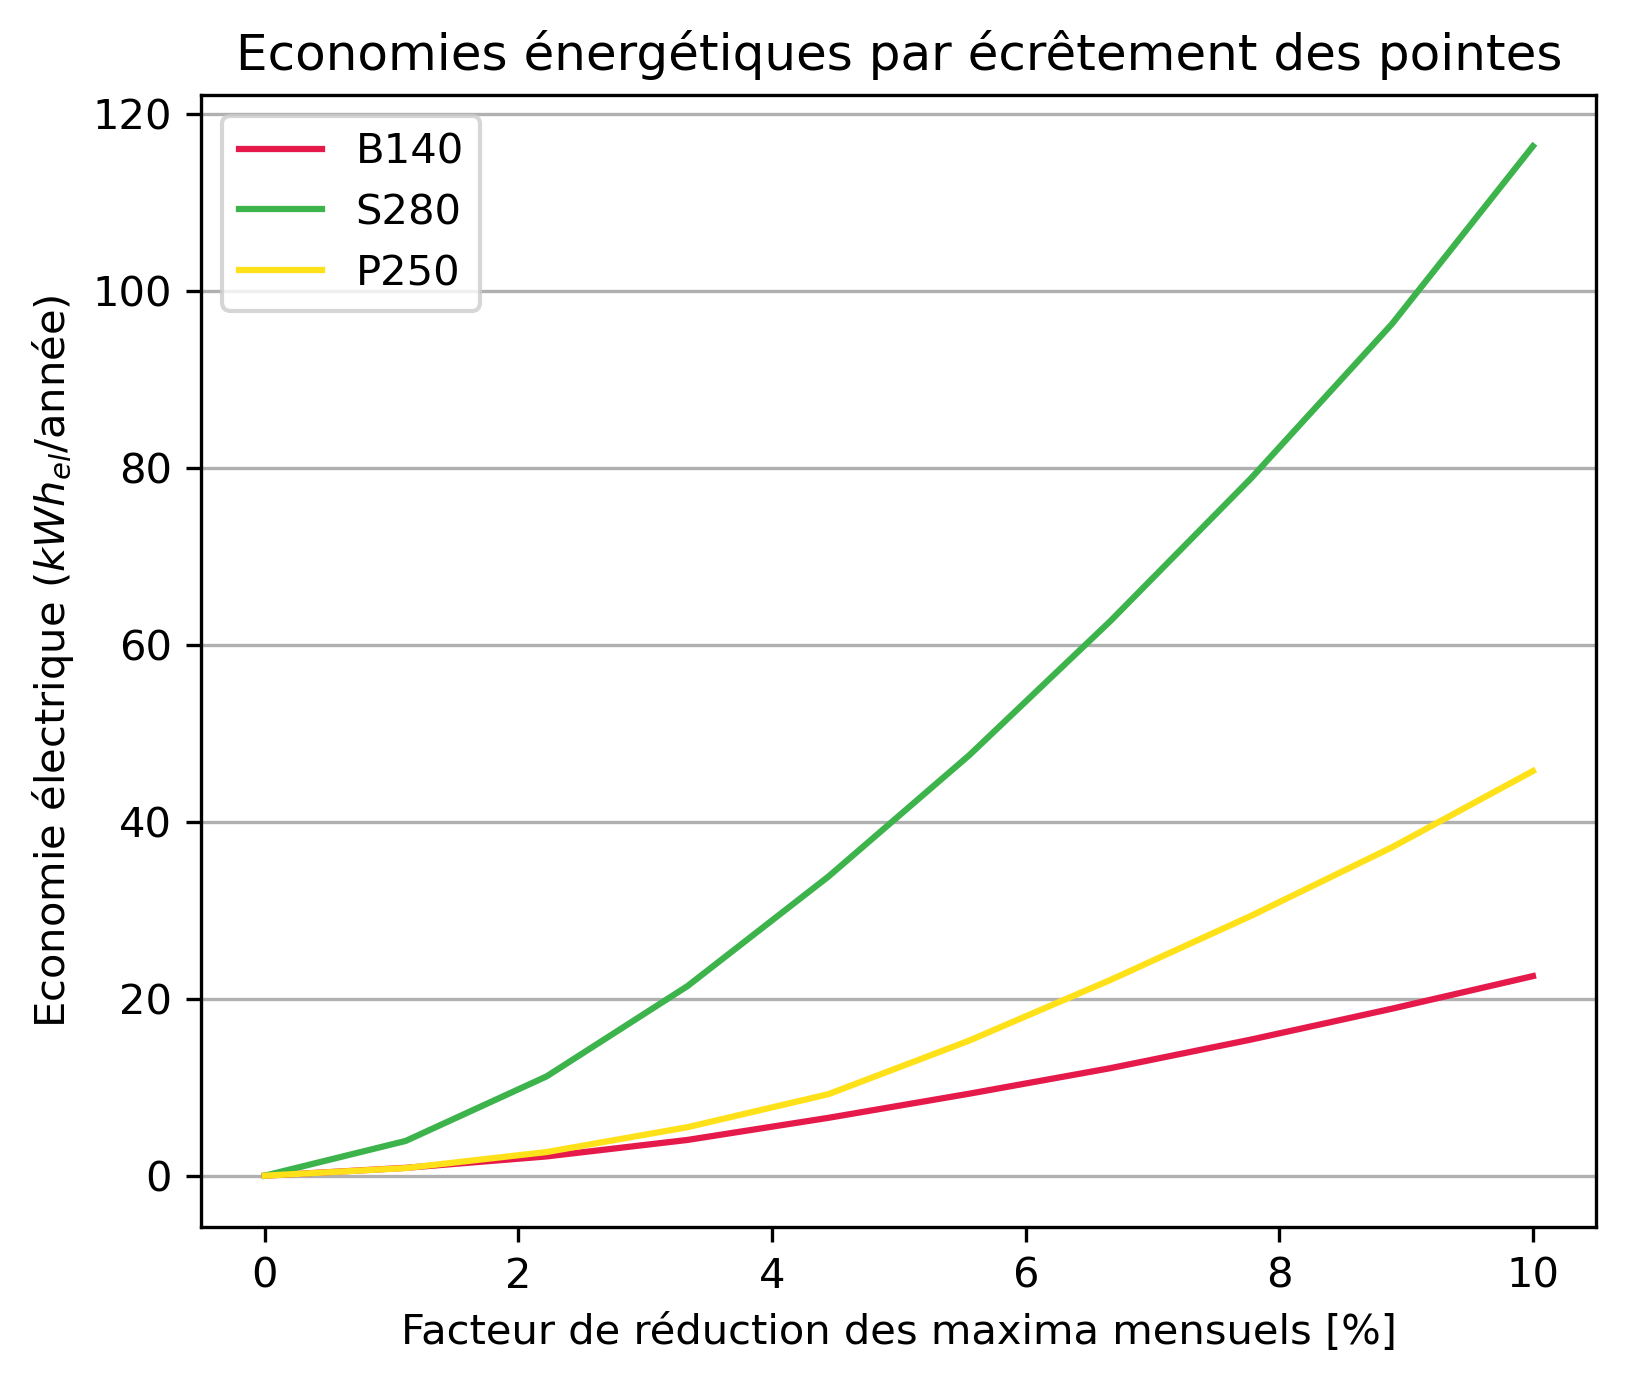
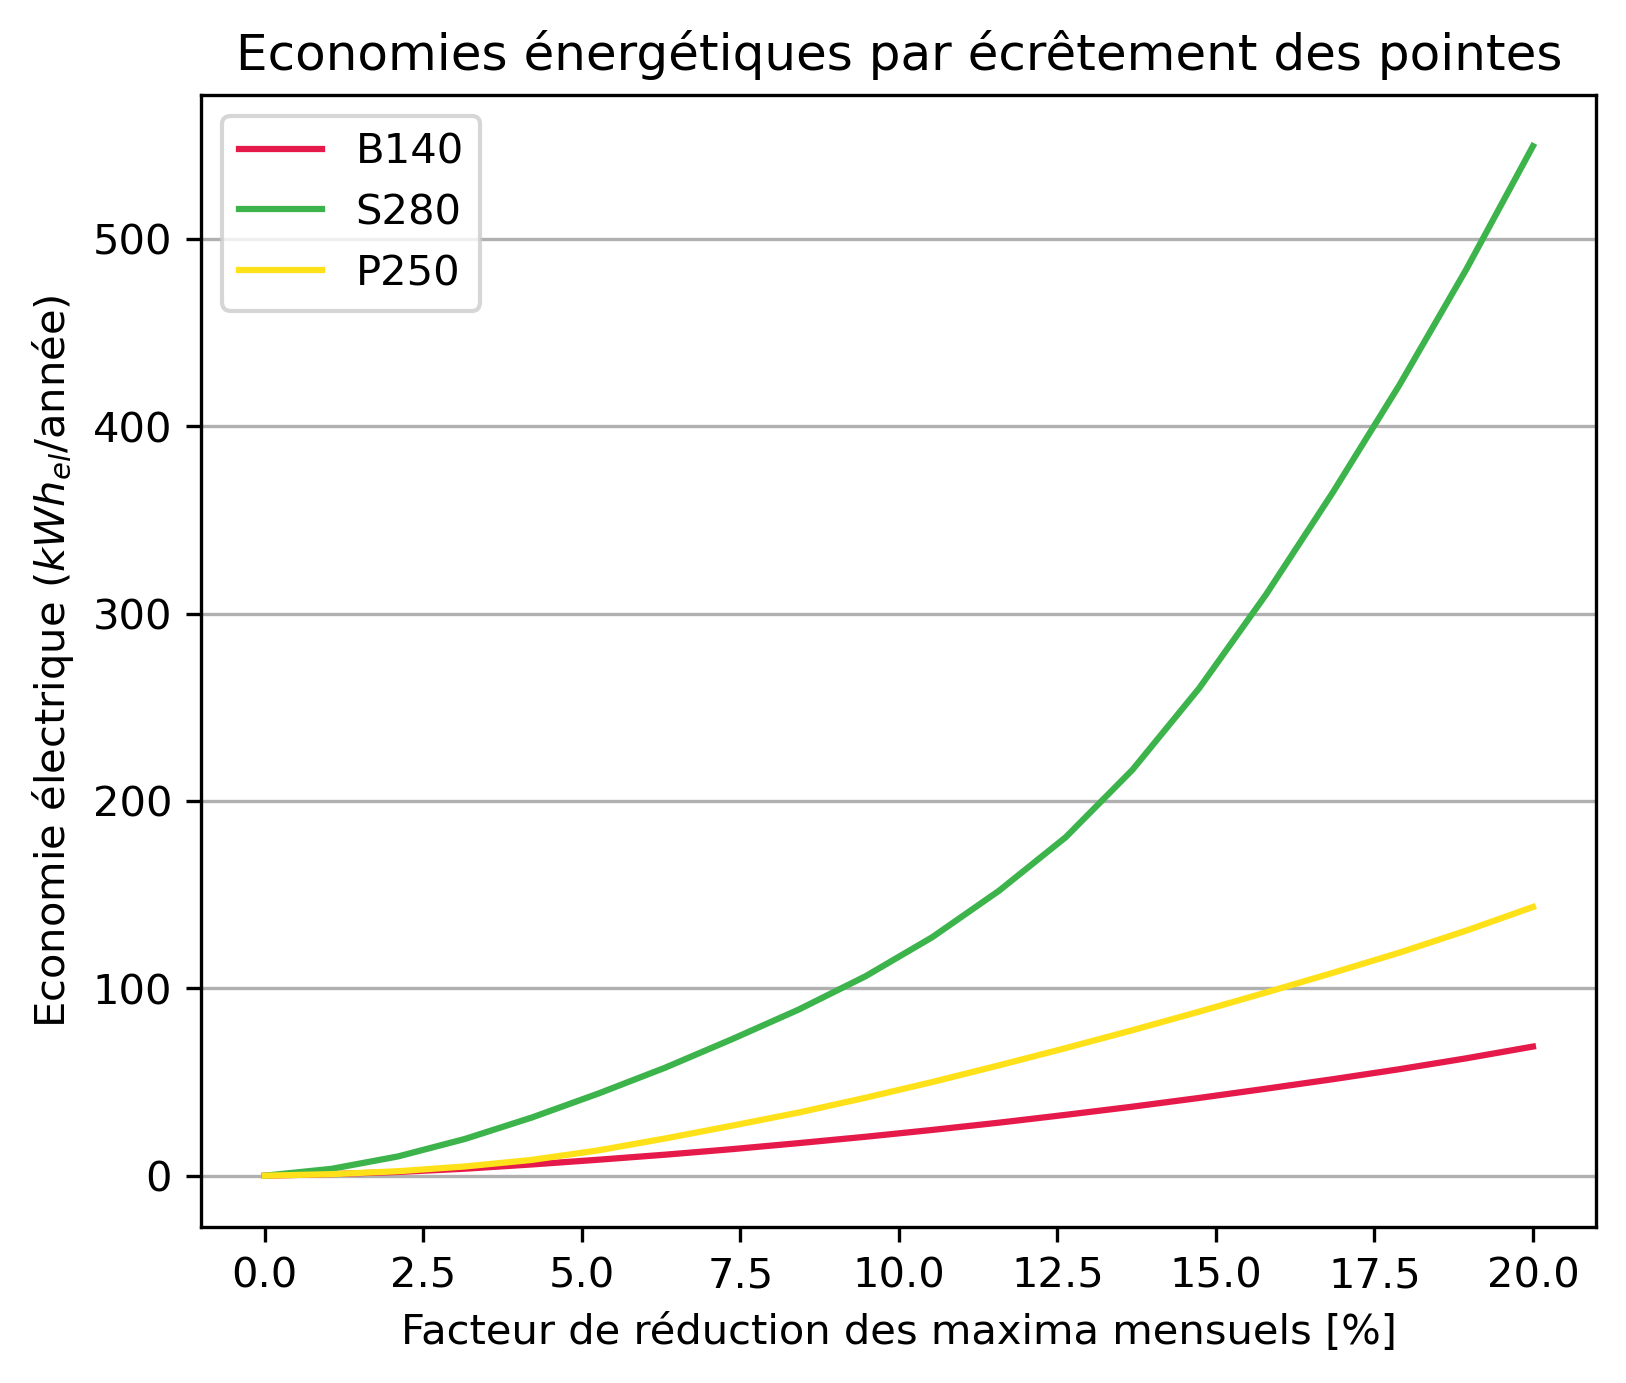
cost savings graph change to 20 ticks

diff --git a/cost_savings.py b/cost_savings.py
@@ -81,7 +81,7 @@ def get_baseload_2(df):
 
 #%% 
 # parameters to change
-Typology = "Ecole"
+Typology = "Culture"
 Period = "day"
 
 # smoothing calculations
@@ -165,9 +165,9 @@ def calculate_peak_economies(df, max_values_df, factor=0.8):
 # Usage:
 peak_economies, df_shaved = calculate_peak_economies(df, max_values_df, factor =0.8)
 energy_economies = peak_economies.mean(0)*365*24 #kWh/an/m2 (si normalisation préalable)
-plt.bar(Loads.columns, energy_economies)
-plt.xticks(rotation=45)
-plt.show()
+#plt.bar(Loads.columns, energy_economies)
+#plt.xticks(rotation=45)
+#plt.show()
 
 #%% Computing cost savings related to the energy savings
 # savings from reducing the monthly maximum load
@@ -177,7 +177,7 @@ def calculate_load_shifting(max_values_df, min_factor=0.9):
     load_shifting_df = pd.DataFrame()
     
     # Iterate over factor values from 1 to 0.9 in 10 intervals
-    for factor in np.linspace(1, min_factor, 10):
+    for factor in np.linspace(1, min_factor, 20):
         # Calculate savings
         save_factor = 1 - factor
         max_value_savings = max_values_df * save_factor
@@ -234,18 +234,18 @@ def calculate_financial_savings(peak_economies, HP_cost=8.44, HC_cost=2.6):
 
 #%%
 # parameters to change
-Typology = "Apems"
+Typology = "Commune"
 Period = "day"
-"""
+
 Loads_buv = Typo_all_loads["Buvette"]
 Loads_sport = Typo_all_loads["Sport"]
 Loads_parking = Typo_all_loads["Parking"]
 Loads_unique = pd.concat([Loads_buv, Loads_sport, Loads_parking], axis=1)
 Loads = Loads_unique
 df = Loads_unique.astype(np.longdouble)
-"""
+
 # smoothing calculations
-Loads = 1* Typo_all_loads[Typology] # conversion to [kW] if factor = 4, else kWh/quart d'heure
+#Loads = 1* Typo_all_loads[Typology] # conversion to [kW] if factor = 4, else kWh/quart d'heure
 
 Loads_copy = Loads.copy()
 
@@ -261,13 +261,13 @@ df = Loads_last_year.astype(np.longdouble)
 
 dfkW = 4 * df
 
-#%% financial savings for varying factor of saving
-load_shifting_df = calculate_load_shifting(calculate_max_values(dfkW), min_factor=0.9) # has to be in kW
+### financial savings for varying factor of saving
+load_shifting_df = calculate_load_shifting(calculate_max_values(dfkW), min_factor=0.8) # has to be in kW
 
 annual_financial_savings = calculate_financial_savings(peak_economies)
 financial_savings_list = []
 
-for factor in np.linspace(1,0.8,10):
+for factor in np.linspace(1,0.8,20):
     peak_economies, df_shaved = calculate_peak_economies(df, max_values_df, factor)
     financial_savings_list.append(calculate_financial_savings(peak_economies))
 
@@ -277,11 +277,11 @@ my_colors = ['#e6194B', '#3cb44b', '#ffe119', '#4363d8', '#f58231', '#911eb4', '
 load_shifting_df.columns = financial_savings_df.columns
 
 total_financial_savings_df = financial_savings_df.add(load_shifting_df)
-
+"""
 # PUISSANCE
 plt.figure(figsize=(6, 5), dpi=300)
 for i, column in enumerate(financial_savings_df.columns): # adapt to which type of cost to plot
-    plt.plot(np.linspace(0, 10, 10),load_shifting_df[column], color=my_colors[i])
+    plt.plot(np.linspace(0, 20, 20),load_shifting_df[column], color=my_colors[i])
 #plt.yscale("log")
 plt.title('Economies financières par écrêtement des pointes (Puissance)')
 plt.xlabel('Facteur de réduction des maxima mensuels [%]')
@@ -295,7 +295,7 @@ plt.show()
 # ENERGIE
 plt.figure(figsize=(6, 5), dpi=300)
 for i, column in enumerate(financial_savings_df.columns): # adapt to which type of cost to plot
-    plt.plot(np.linspace(0, 10, 10),financial_savings_df[column], color=my_colors[i])
+    plt.plot(np.linspace(0, 20, 20),financial_savings_df[column], color=my_colors[i])
 #plt.yscale("log")
 plt.title('Economies financières par écrêtement des pointes (Energie)')
 plt.xlabel('Facteur de réduction des maxima mensuels [%]')
@@ -305,12 +305,12 @@ plt.locator_params(axis='y', nbins=10)
 plt.legend(Loads.columns)
 plt.grid(axis='y')
 plt.show()
-
+"""
 
 # TOTAL
 plt.figure(figsize=(6, 5), dpi=300)
 for i, column in enumerate(financial_savings_df.columns): # adapt to which type of cost to plot
-    plt.plot(np.linspace(0, 10, 10),total_financial_savings_df[column], color=my_colors[i])
+    plt.plot(np.linspace(0, 20, 20),total_financial_savings_df[column], color=my_colors[i])
 #plt.yscale("log")
 plt.title('Economies financières par écrêtement des pointes (Total)')
 plt.xlabel('Facteur de réduction des maxima mensuels [%]')
@@ -321,27 +321,8 @@ plt.legend(Loads.columns)
 plt.grid(axis='y')
 plt.show()
 
-#%% illustrative example of peak shaving 
-palette = sb.color_palette("hls", 13)
 
-peak_economies, df_shaved = calculate_peak_economies(dfkW, calculate_max_values(dfkW), factor=0.9)
-slct_cons = 'E302'
-
-plt.figure(dpi=300)
-plt.plot(dfkW[slct_cons], color=palette[0])
-plt.plot(df_shaved[slct_cons], color='royalblue')
-plt.legend(["Ecrêtement 10%","Charge restante"], loc='center left', bbox_to_anchor=(1, 0.84))
-# Format x-axis ticks to display only the month
-plt.gca().xaxis.set_major_formatter(mdates.DateFormatter('%W'))
-plt.gca().xaxis.set_major_locator(mdates.MonthLocator())
-
-plt.tick_params(axis='both', which='major', labelsize=9)
-plt.xlabel("Semaine")
-plt.ylabel("Charge - [$kW_{el}/m^2$]")
-#plt.title("Illustration de l'écrêtement des pointes")
-plt.show()
-
-#%% peak shaving with load reduction
+###peak shaving with load reduction
 
 ### ATTENTION garder Loads en kWh/quart d'heure
 def calculate_energy_economies(df, max_values_df):
@@ -349,7 +330,7 @@ def calculate_energy_economies(df, max_values_df):
     energy_economies_list = []
     
     # Iterate over the factors from 0.9 to 0.4 with 10 intervals
-    for factor in np.linspace(1, 0.9, 10):
+    for factor in np.linspace(1, 0.8, 20):
         # Apply peak shaving with the current factor
         
         peak_economies, df_shaved = calculate_peak_economies(df, max_values_df, factor)
@@ -360,7 +341,7 @@ def calculate_energy_economies(df, max_values_df):
     energy_economies_df = pd.DataFrame(energy_economies_list)
     return energy_economies_df
 
-#%% 
+
 energy_economies_df = calculate_energy_economies(df, calculate_max_values(df))
 
 my_colors = ['#e6194B', '#3cb44b', '#ffe119', '#4363d8', '#f58231', '#911eb4', '#42d4f4', '#f032e6', '#bfef45', '#fabed4', '#469990', '#dcbeff', '#9A6324', '#800000', '#aaffc3', '#808000', '#ffd8b1', '#000075']
@@ -368,7 +349,7 @@ my_colors = ['#e6194B', '#3cb44b', '#ffe119', '#4363d8', '#f58231', '#911eb4', '
 # Plot the energy economies for each factor
 plt.figure(figsize=(6, 5), dpi=300)
 for i, column in enumerate(energy_economies_df.columns):
-    plt.plot(np.linspace(0, 10, 10),energy_economies_df[column], color=my_colors[i])
+    plt.plot(np.linspace(0, 20, 20),energy_economies_df[column], color=my_colors[i])
 #plt.yscale("log")
 plt.title('Economies énergétiques par écrêtement des pointes')
 plt.xlabel('Facteur de réduction des maxima mensuels [%]')
@@ -378,93 +359,23 @@ plt.legend(Loads.columns)
 plt.grid(axis='y')
 plt.show()
 
+#%% illustrative example of peak shaving 
+palette = sb.color_palette("hls", 13)
 
+peak_economies, df_shaved = calculate_peak_economies(dfkW, calculate_max_values(dfkW), factor=0.8)
+slct_cons = 'S280'
 
+plt.figure(dpi=300)
+plt.plot(dfkW[slct_cons], color=palette[0])
+plt.plot(df_shaved[slct_cons], color='royalblue')
+plt.legend(["Ecrêtement 20%","Charge restante"], loc='center left', bbox_to_anchor=(1, 0.84))
+# Format x-axis ticks to display only the month
+plt.gca().xaxis.set_major_formatter(mdates.DateFormatter('%W'))
+plt.gca().xaxis.set_major_locator(mdates.MonthLocator())
 
-
-#%%
-"""
-#%%Baseload savings v2 ###### plus d'actualité
-#print(df[df.index.duplicated()])
-
-# Remove duplicate indices
-df_no_duplicates = df[~df.index.duplicated(keep='first')]
-
-baseloads = get_baseload_2(df_no_duplicates)
-
-baseloads.replace(0, np.nan, inplace=True)
-
-baseload_min= np.min(baseloads, axis=1)
-
-baseload_avg = np.mean(baseloads, axis=1)
-
-baseload_savings = baseload_min.copy()
-
-# output in kW/m2 of energy savings
-for i, column in enumerate(baseloads.columns):
-    if baseload_min[i] > baseload_avg:
-        # dragging the big consumers towards average value
-        baseload_savings.iloc[i,:] = baseload_min[i] - baseload_avg
-    else:
-        # dragging lower consumers to best in class
-        baseload_savings.iloc[i,:] = baseload_min[i] - baseload_min_min
-    
-
-Now we have the baseloads, we want to compute how much savings by
-a reduction of that baseload by a given percentage
-
-
-
-plt.bar(Loads.columns, baseload_savings)
-
-
-#%%Baseload savings
-#print(df[df.index.duplicated()])
-
-# Remove duplicate indices
-df_no_duplicates = df[~df.index.duplicated(keep='first')]
-
-baseloads = get_baseload_2(df_no_duplicates)
-
-baseloads.replace(0, np.nan, inplace=True)
-
-baseload_min= np.min(baseloads, axis=0)
-
-baseload_min_min = np.min(baseload_min)
-
-baseload_avg = np.mean(baseload_min)
-
-baseload_savings = baseload_min.copy()
-
-# output in kW/m2 of energy savings
-for i in range(baseloads.shape[1]):
-    if baseload_min[i] > baseload_avg:
-        # dragging the big consumers towards average value
-        baseload_savings.iloc[i,:] = baseload_min[i] - baseload_avg
-    else:
-        # dragging lower consumers to best in class
-        baseload_savings.iloc[i,:] = baseload_min[i] - baseload_min_min
-    
-
-Now we have the baseloads, we want to compute how much savings by
-a reduction of that baseload by a given percentage
-
-
-
-plt.bar(Loads.columns, baseload_savings)
-
-#%%
-my_colors = sb.color_palette("hls", baseloads.shape[1])
-plt.figure()
-plt.figure()
-for i, column in enumerate(baseloads.columns):
-    plt.plot(baseloads[column], color=my_colors[i])
-plt.axhline(y=baseload_avg, color='red', linestyle='--', label='Average baseload')
-plt.axhline(y=baseload_min_min, color='blue', linestyle='--', label='Minimum baseload')
-plt.ylabel('Load - [$kW_{el}/m^2$]')
-plt.xlabel('Days of the year')
-plt.legend()
+plt.tick_params(axis='both', which='major', labelsize=9)
+plt.xlabel("Semaine")
+plt.ylabel("Charge - [$kW_{el}/m^2$]")
+#plt.title("Illustration de l'écrêtement des pointes")
 plt.show()
-
-"""
 

diff --git a/peak_analysis.py b/peak_analysis.py
@@ -33,15 +33,15 @@ Typo_loads_2022, Typo_loads_2023, Typo_all_loads, Correspondance = p.sort_typolo
 #print(Typo_loads)
 
 
-Typology = ["Ecole"]
+Typology = "Culture"
 
-#Loads = Typo_all_loads[Typology]
+Loads = Typo_all_loads[Typology]
 Loads_buv = Typo_all_loads["Buvette"]
 Loads_sport = Typo_all_loads["Sport"]
 Loads_parking = Typo_all_loads["Parking"]
 Loads_unique = pd.concat([Loads_buv, Loads_sport, Loads_parking], axis=1)
 
-df = Loads_unique.astype(np.longdouble)
+df = Loads.astype(np.longdouble)
 
 #%%
 
@@ -221,8 +221,11 @@ Loads_buv = Typo_all_loads["Buvette"]
 Loads_sport = Typo_all_loads["Sport"]
 Loads_parking = Typo_all_loads["Parking"]
 Loads_unique = pd.concat([Loads_buv, Loads_sport, Loads_parking], axis=1)
-Loads = Loads_unique
-df = Loads_unique.astype(np.longdouble)
+Loads = Typo_all_loads["Apems"]
+#Loads = Loads_unique
+
+
+df = Loads.astype(np.longdouble)
 
 
 #Typology = "Commune"
@@ -319,7 +322,7 @@ plt.xticks(rotation=45)
 # Displaying the plot
 plt.show()
 """
-#%% sum of mild and significant anomalies for each customer
+### sum of mild and significant anomalies for each customer
 total_mild_occurences = count_ones_dfT.sum(axis=0)
 total_sign_occurences = count_twos_dfT.sum(axis=0)
 
@@ -340,7 +343,7 @@ plt.xticks(rotation=45)
 # Displaying the plot
 plt.show()
 
-#%% Computing the averages
+### plotting the occurences
 avg_ones = np.nanmean(count_ones_dfT, axis=1)
 avg_twos = np.nanmean(count_twos_dfT, axis=1)
 avg_twos = pd.Series(avg_twos)
@@ -348,7 +351,7 @@ avg_twos = pd.Series(avg_twos)
 # Ensure avg_twos has the correct index
 avg_twos.index = range(1, len(avg_twos) + 1)
 print(avg_twos.index)
-#%% plotting the occurences
+
 my_palette = ['#e6194B', '#3cb44b', '#ffe119', '#4363d8', '#f58231', '#911eb4', '#42d4f4', '#f032e6', '#bfef45', '#fabed4', '#469990', '#dcbeff', '#9A6324', '#800000', '#aaffc3', '#808000', '#ffd8b1', '#000075']
 # Generate HLS color palette with 13 colors
 hls_palette = sb.color_palette("hls", Loads.shape[1])
@@ -369,7 +372,7 @@ plt.show()"""
 # Plot count_twos_df
 plt.figure(figsize=(6, 5), dpi=300)
 for i, client in enumerate(count_twos_dfT.columns):
-    plt.plot(count_twos_dfT.index, count_twos_dfT[client], label=Loads.columns[client-1], color=my_palette[client-1])
+    plt.plot(count_twos_dfT.index, count_twos_dfT[client], label=Loads.columns[client], color=my_palette[client])
 plt.plot(avg_twos.index, avg_twos, label="Moyenne", color="blue", linewidth=5, alpha=0.5)
 plt.title('Occurrences mensuelles des anomalies significatives')
 plt.xlabel('Mois')
